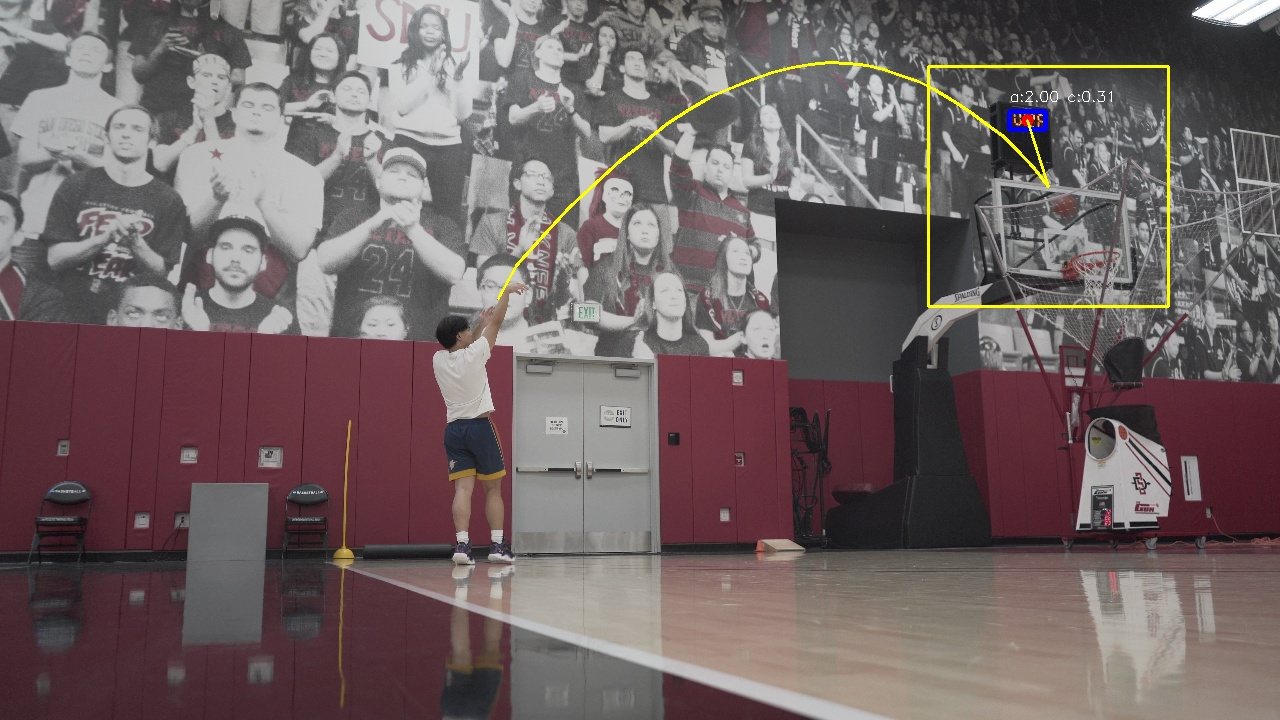
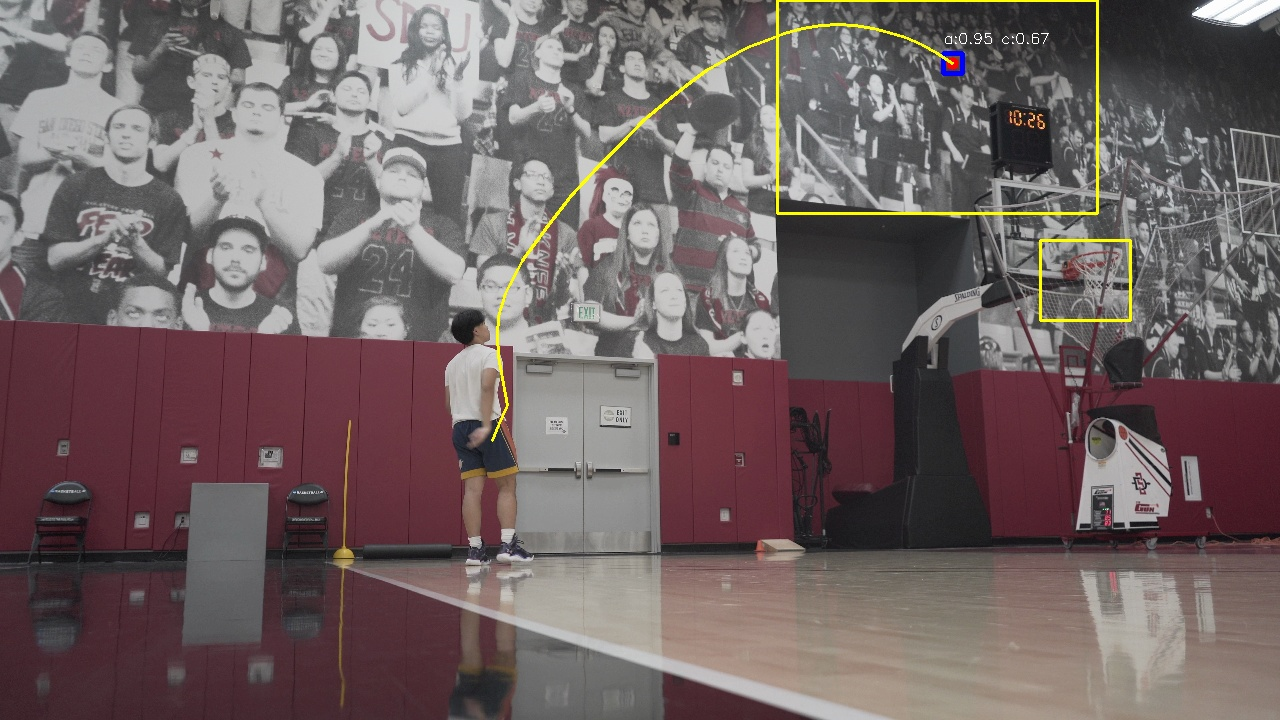
Updating code -> making the hoop a late-flight expansion target for the ROI

Changed region(s): [[0.4375, 0.0, 0.9375, 0.4583], [0.3125, 0.3667, 0.4375, 1.0], [0.4062, 0.3056, 0.4375, 0.3667]]

diff --git a/src/main.py b/src/main.py
@@ -87,6 +87,12 @@ def playVideoFrameFile():
     # Cap the trail length to avoid long trail history cluttering the frame
     MAX_TRAIL_POINTS = 30
 
+    # hardcoded hoop region
+    hoop_x1 = 1040
+    hoop_y1 = 240
+    hoop_x2 = 1130
+    hoop_y2 = 320
+
     # 4. Repeatedly read the next frame
     while True:
         ret, frame = cap.read()
@@ -106,6 +112,7 @@ def playVideoFrameFile():
         # Updating ROI for dynamic ROI
         frame_height, frame_width = frame.shape[:2]
 
+        # ---- DYNAMIC ROI LOGIC ----
         # define static ROI bounds
         if not ball_path:
             roi_x1 = 250
@@ -114,13 +121,25 @@ def playVideoFrameFile():
             roi_y2 = 720
         else:
             last_x, last_y = ball_path[-1]
-            margin = 120
+            margin = 160
 
             # clamp the ROI
             roi_x1 = max(0, last_x - margin)
             roi_y1 = max(0, last_y - margin)
             roi_x2 = min(frame_width, last_x + margin)
             roi_y2 = min(frame_height, last_y + margin)
+
+            # If ball is entering late flight, include hoop region too
+            # Making the hoop a late-flight expansion target for the ROI
+            if last_x > 900:
+                roi_x1 = min(roi_x1, hoop_x1)
+                roi_y1 = min(roi_y1, hoop_y1)
+                roi_x2 = min(roi_x2, hoop_x2)
+                roi_y2 = min(roi_y2, hoop_y2)
+            
+
+        # Draw the manual hoop on the debug frame
+        cv.rectangle(debug_frame, (hoop_x1, hoop_y1), (hoop_x2, hoop_y2), (0, 255, 255), 2)
 
         # Draw the ROI rectangle on debug_frame
         cv.rectangle(debug_frame, (roi_x1, roi_y1), (roi_x2, roi_y2), (0, 255, 255), 2)

diff --git a/LEARNING_LOG.md b/LEARNING_LOG.md
@@ -990,3 +990,30 @@ roi_y1 = max(0, last_y - margin)
 roi_x2 = min(frame_width, last_x + margin)
 roi_y2 = min(frame_height, last_y + margin)
 ```
+
+# Lesson 51 — Scene Knowledge Can Improve Tracking
+
+Once a tracker is reasonably following the ball, knowledge about important scene regions can improve stability.
+
+In basketball shot tracking, the hoop area is especially important.
+
+A practical first step is to define a manual hoop region for a controlled clip.
+
+This region can later help with:
+
+- constraining late-flight tracking
+- detecting rim approach
+- detecting make/miss events
+- resetting the tracker after a completed shot
+
+# Lesson 52 — Use the Hoop as a Constraint, Not the Only Target
+
+The hoop should not replace ball-centered tracking.
+
+Instead, the hoop region should act as an additional constraint during the later phase of the shot.
+
+Good tracking architecture:
+
+- initialize near player
+- track by previous ball position
+- use hoop region as a late-flight guide
